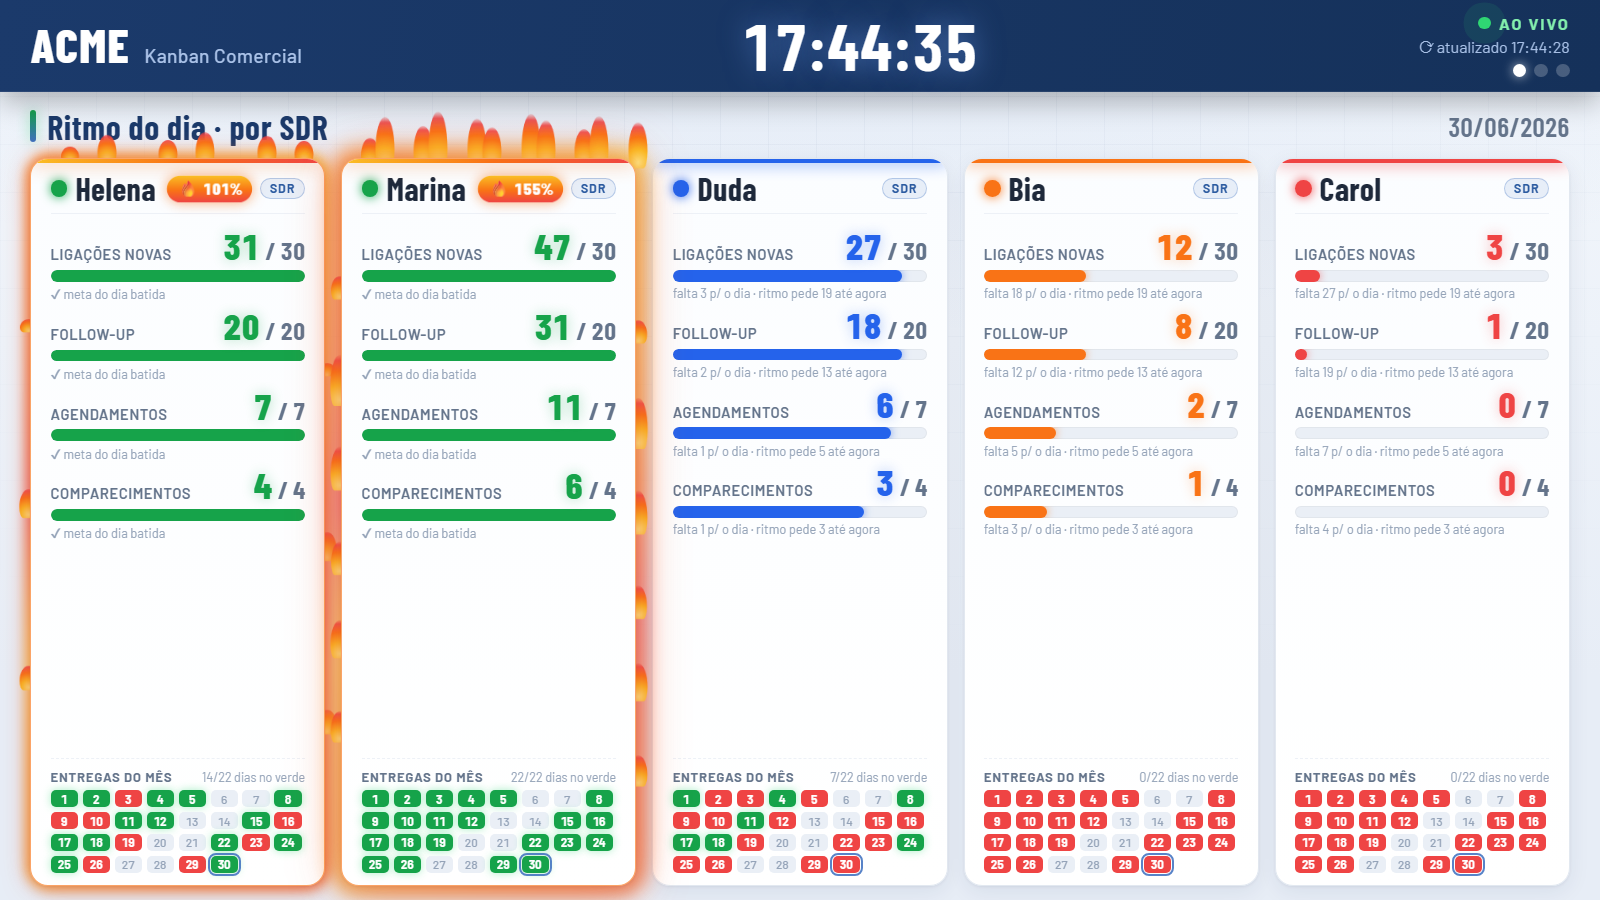
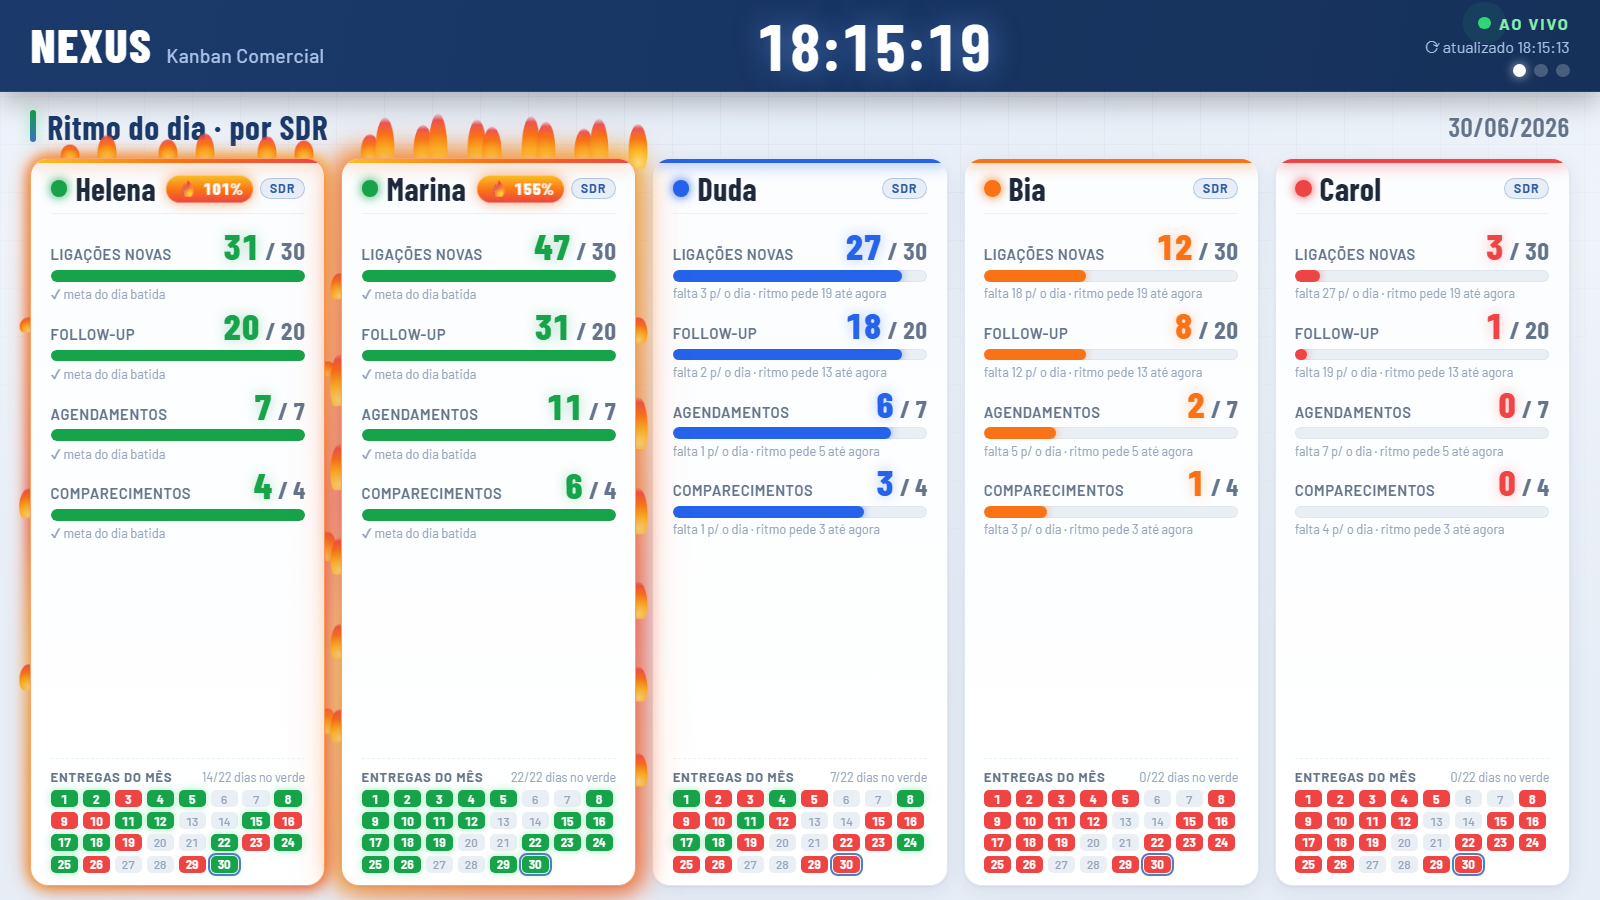
Rebrand demo to NEXUS Business School (match portfolio covers)

diff --git a/index.html b/index.html
@@ -6,13 +6,13 @@
 <meta http-equiv="Cache-Control" content="no-cache, no-store, must-revalidate">
 <meta http-equiv="Pragma" content="no-cache">
 <meta http-equiv="Expires" content="0">
-<title>ACME • Kanban Comercial — Demo</title>
+<title>NEXUS • Kanban Comercial — Demo</title>
 <link rel="preconnect" href="https://fonts.googleapis.com">
 <link rel="preconnect" href="https://fonts.gstatic.com" crossorigin>
 <link href="https://fonts.googleapis.com/css2?family=Barlow:wght@400;500;600;700&family=Barlow+Condensed:wght@500;600;700;800&display=swap" rel="stylesheet">
 <style>
   /* ===================================================================
-     ACME — Painel de TV do Kanban Comercial · VERSÃO DEMO P/ EVENTO
+     NEXUS — Painel de TV do Kanban Comercial · VERSÃO DEMO P/ EVENTO
      Dados 100% fictícios embutidos (sem Google Sheets, roda offline).
      SDRs encenam 5 estados: bateu (fogo ~101%), excedeu (inferno ~155%),
      quase entregue (azul), no meio (laranja), bem ruim (vermelho).
@@ -220,7 +220,7 @@
 <body data-theme="light">
 <div class="wrap">
   <header>
-    <div class="brand"><b>ACME</b><span id="sub">Kanban Comercial</span></div>
+    <div class="brand"><b>NEXUS</b><span id="sub">Kanban Comercial</span></div>
     <div class="center"><div class="clock" id="clock">--:--:--</div></div>
     <div class="rightinfo">
       <div class="live"><i></i>AO VIVO</div>
